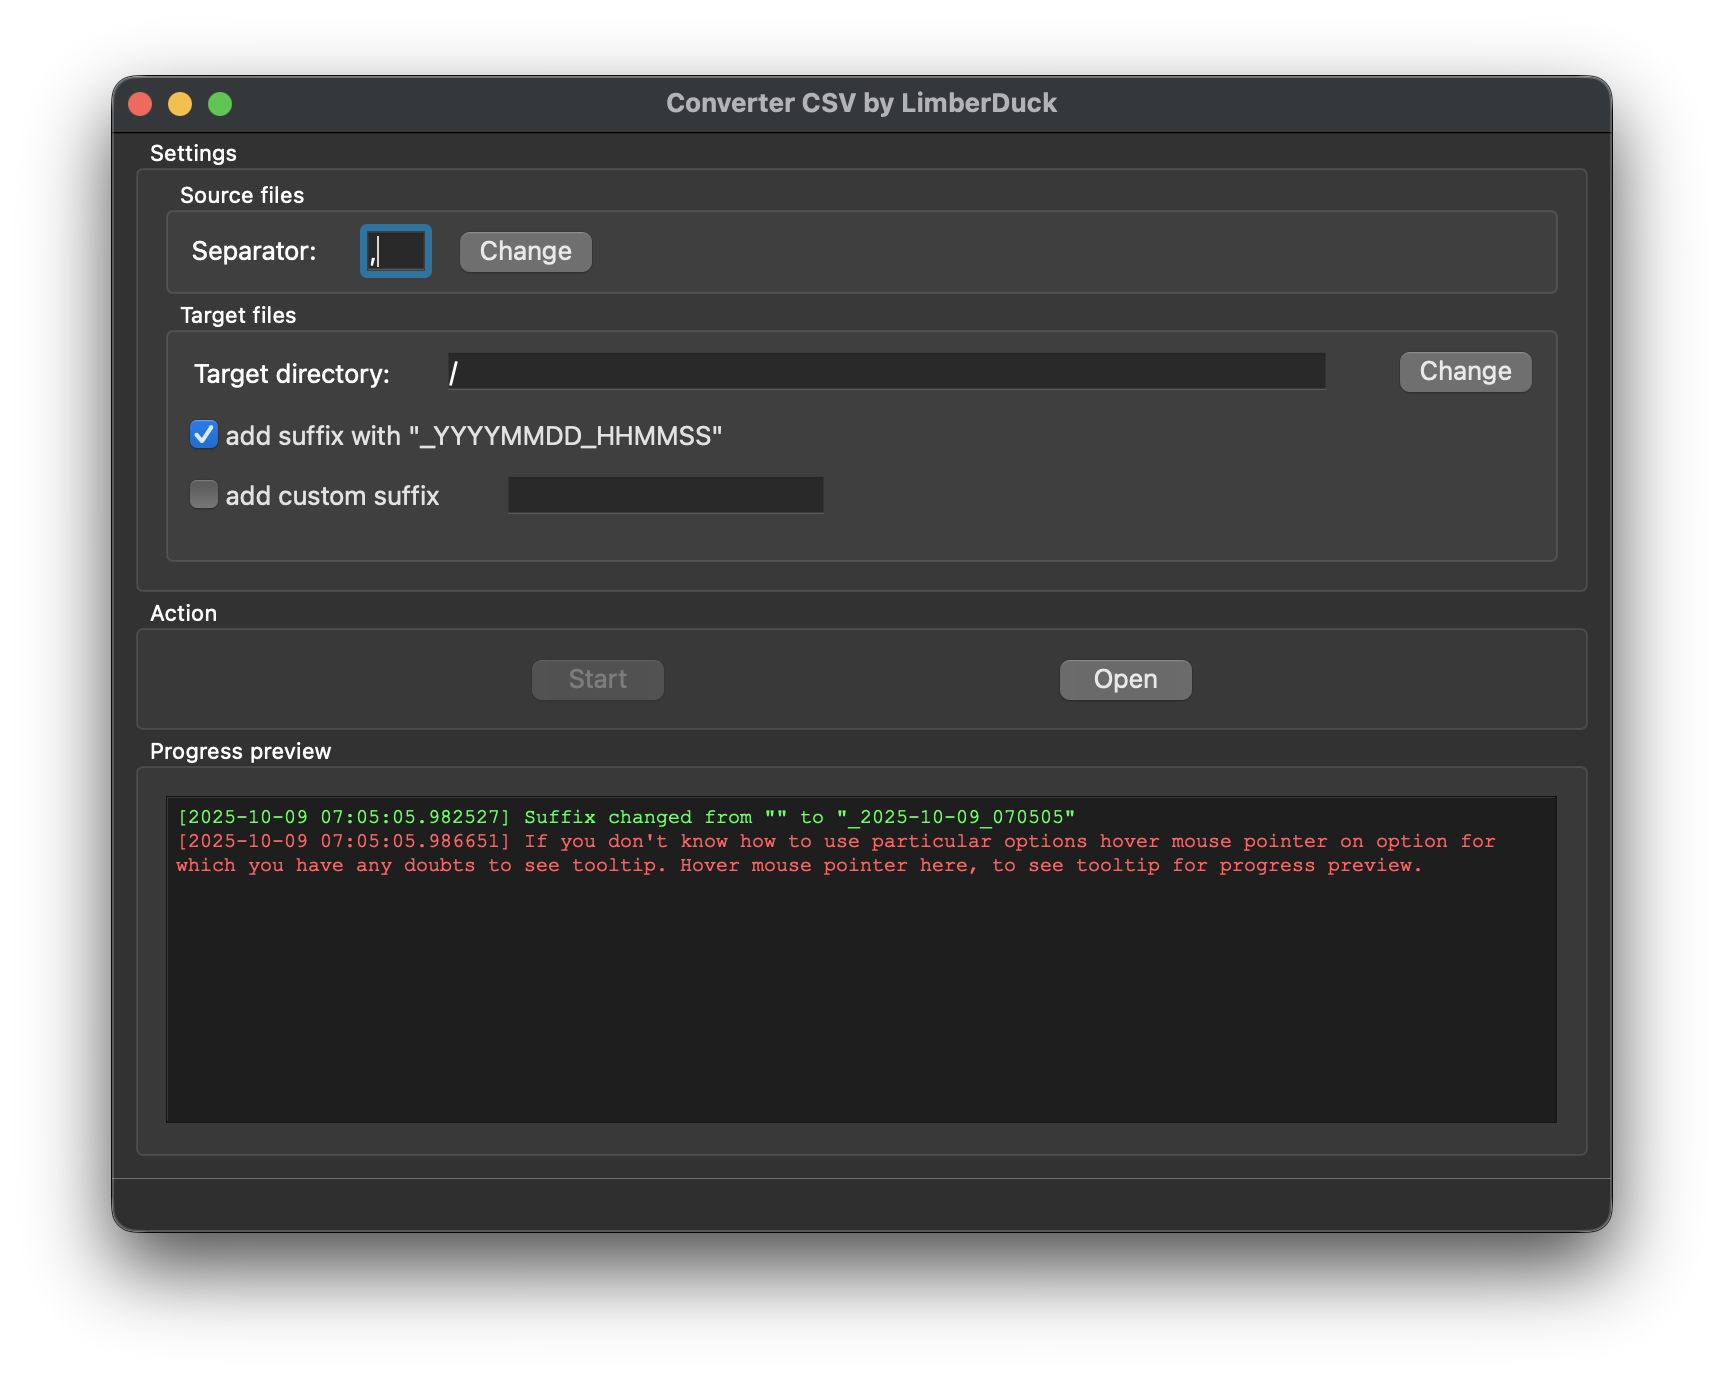
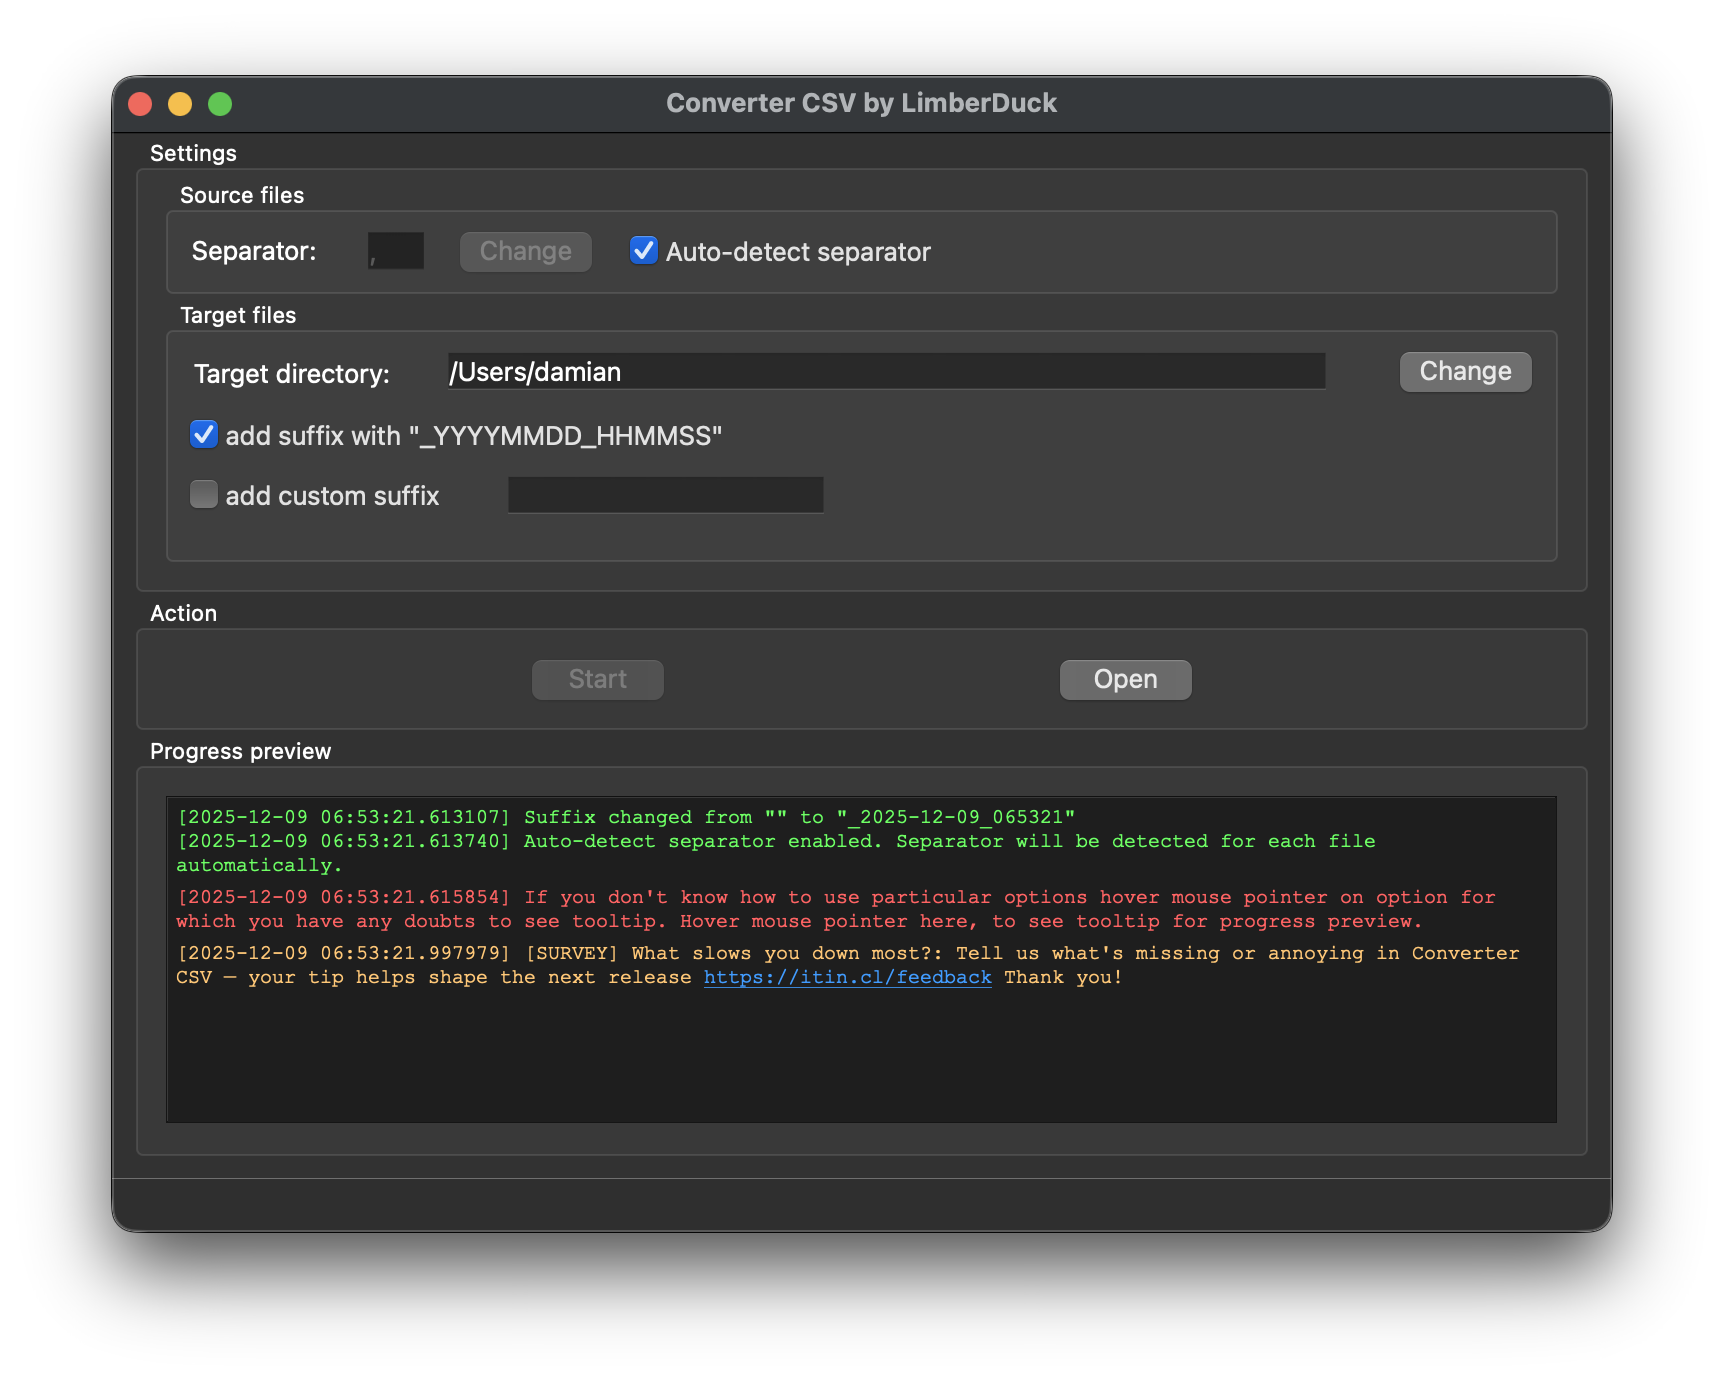
Doc update for Converter CSV v0.6.1

diff --git a/docs/conf.py b/docs/conf.py
@@ -78,7 +78,7 @@ html_theme_options = {
                 {
                     "title": "Converter CSV",
                     "url": "tools/converter-csv/index",
-                    "summary": "Convert CSV files to XLSX format",
+                    "summary": "Bulk convert CSV files to XLSX format",
                 },
                 {
                     "title": "TNSCM",

diff --git a/docs/tools/converter-csv/index.rst b/docs/tools/converter-csv/index.rst
@@ -1,4 +1,4 @@
-:description: GUI tool which enables you to convert large CSV files files to XLSX files.
+:description: GUI tool that enables you to convert CSV files to XLSX files in bulk.
 
 Converter CSV
 =============
@@ -12,9 +12,13 @@ Converter CSV
    :target: .
 
 This is a |GUI| tool which lets you convert multiple large |csv| files to |xlsx| files 
-keeping your operational memory usage at a low level. You can run it on your 
-operating system no matter if it is Windows, MacOS or GNU Linux. It's free and Open 
-Source [#]_ tool.
+keeping your operational memory usage at a low level.
+Just drag and drop |csv| files or folders containing |csv| files onto the application window, 
+set your preferences, and start the conversion process. 
+Converter CSV will automatically detect separators such as 
+``,``, ``;``, ``tab``, ``|`` and ``:`` used in the files.
+Works on Windows, macOS or GNU Linux.
+It's free and Open Source [#]_ tool.
 
 .. grid:: 2 3 4 4
 
